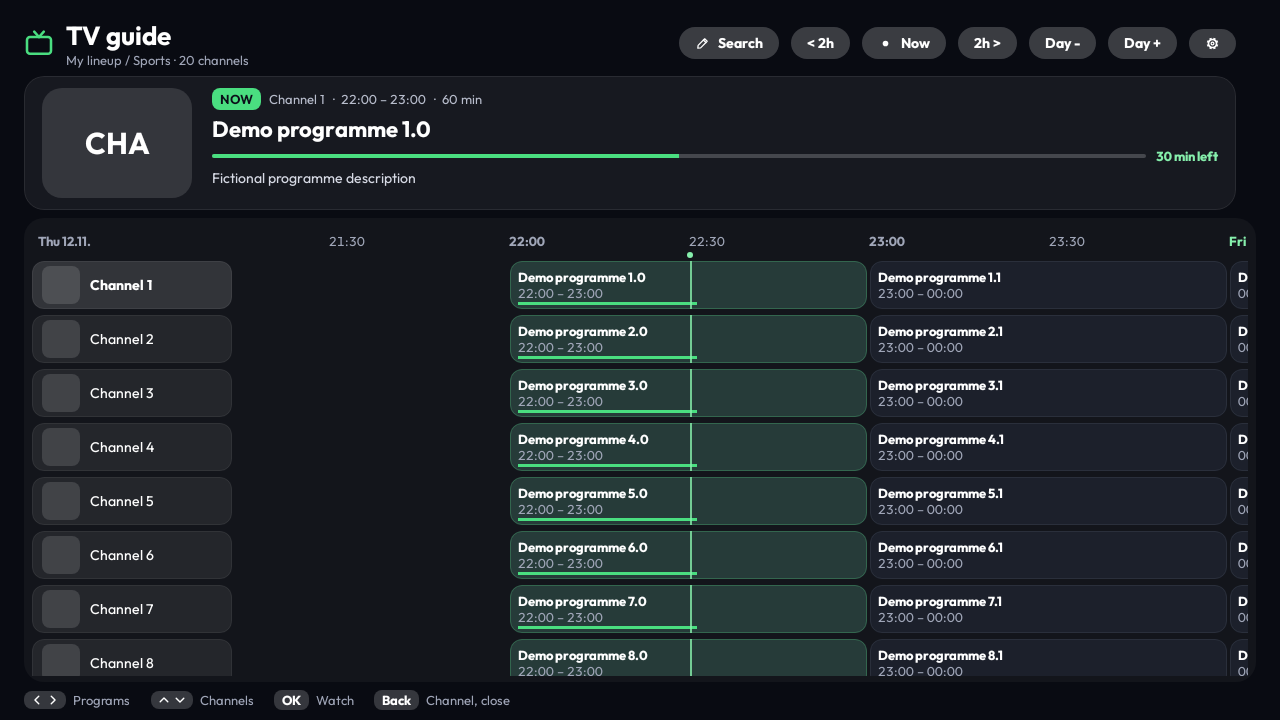
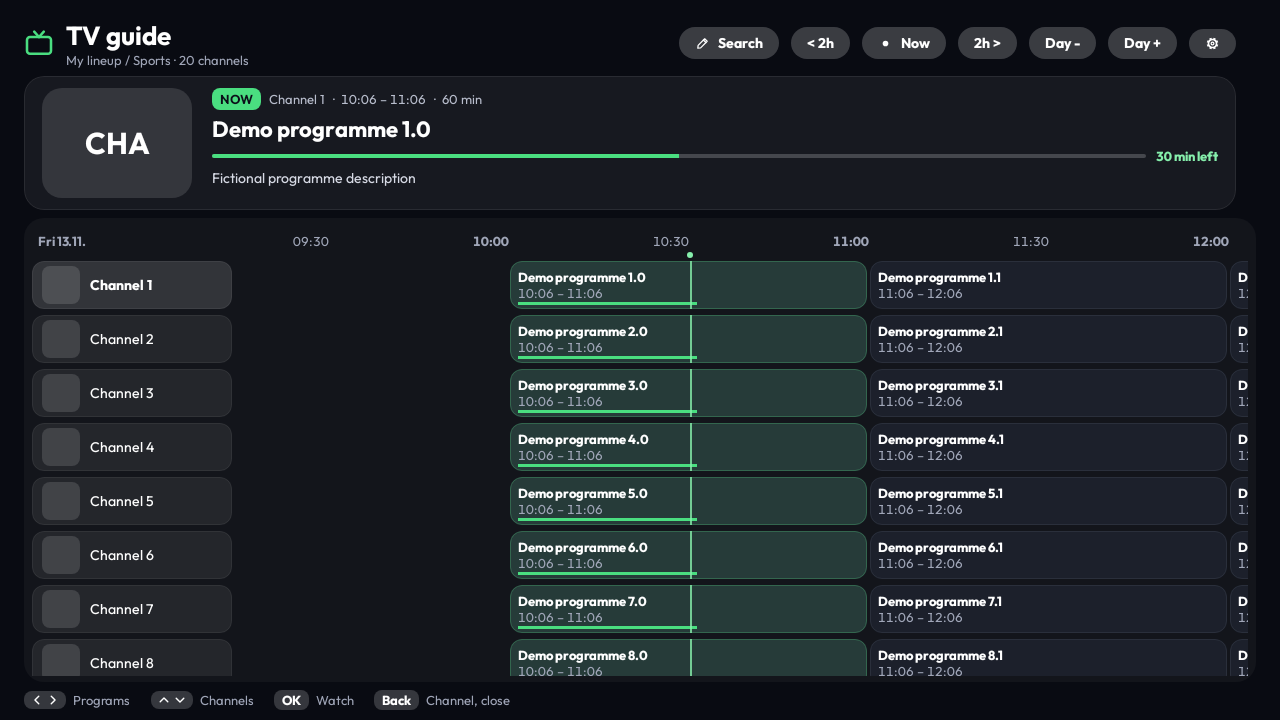
Load short EPG on demand and make full XMLTV downloads manual

diff --git a/app/src/main/java/com/ipvio/stream/Epg.kt b/app/src/main/java/com/ipvio/stream/Epg.kt
@@ -11,9 +11,11 @@ import kotlinx.coroutines.Dispatchers
 import kotlinx.coroutines.Job
 import kotlinx.coroutines.SupervisorJob
 import kotlinx.coroutines.launch
+import kotlinx.coroutines.ensureActive
 import kotlinx.coroutines.sync.Semaphore
 import kotlinx.coroutines.sync.withPermit
 import kotlinx.coroutines.withContext
+import kotlinx.coroutines.sync.withLock
 import okhttp3.Request
 import org.json.JSONObject
 import org.xmlpull.v1.XmlPullParser
@@ -51,24 +53,41 @@ object EpgNet {
     val client = Net.withTimeouts(8, 12)
     val gate = Semaphore(6)
 
+    private val retryCodes=setOf(408,429,500,502,503,504)
     suspend fun fetch(url: String): String? = gate.withPermit {
         withContext(Dispatchers.IO) {
-            try {
-                client.newCall(Request.Builder().url(url).build()).execute().use { r -> if (r.isSuccessful) r.body?.string() else null }
-            } catch (e: Exception) {
-                null
+            repeat(2) { attempt ->
+                kotlinx.coroutines.currentCoroutineContext().ensureActive()
+                try {
+                    client.newCall(Request.Builder().url(url).build()).execute().use { r ->
+                        if(r.isSuccessful) return@withContext r.body?.string()
+                        if(r.code !in retryCodes || attempt==1) return@withContext null
+                    }
+                } catch(e:kotlinx.coroutines.CancellationException) { throw e }
+                catch(e:java.io.IOException) { if(attempt==1) return@withContext null }
+                if(attempt==0) kotlinx.coroutines.delay(350)
             }
+            null
         }
     }
+
 }
 
 object Xmltv {
-    var status by mutableStateOf("Noch nicht geladen")
+    var status by mutableStateOf("On-demand EPG; full XMLTV download is manual")
     var channelCount by mutableStateOf(0)
     private val progs = ConcurrentHashMap<String, List<EpgEntry>>()
     private val client = Net.withTimeouts(20, 180)
     private val scope = CoroutineScope(SupervisorJob() + Dispatchers.IO)
     private var job: Job? = null
+
+    /** Catalog changes never start a full provider XMLTV download. Old data must not leak into another source. */
+    fun onPlaylistChanged() {
+        job?.cancel()
+        progs.clear(); channelCount=0; truncated=false
+        Epg.trim(); EpgFull.trim()
+        status="On-demand EPG; full XMLTV download is manual"
+    }
 
     private fun prefs(c: Context) = c.getSharedPreferences("ipvio_epg", Context.MODE_PRIVATE)
     fun customUrl(c: Context): String = prefs(c).getString("custom", "") ?: ""
@@ -85,6 +104,7 @@ object Xmltv {
     /** [delayMs]: at app start the guide waits a little so the home screen and the playlist get the CPU first. */
     fun start(c: Context, urls: List<String>, items: List<Item>, delayMs: Long = 0L) {
         val all = (urls + listOf(customUrl(c))).filter { it.startsWith("http") }.distinct()
+        job?.cancel()
         if (all.isEmpty()) { status = "Keine EPG-Adresse gefunden"; return }
         val wanted = items.filter { it.kind == Kind.LIVE }.mapNotNull { it.tvgId?.lowercase() }.toSet()
         if (wanted.isEmpty()) { status = "Playlist enthält keine Sender-IDs (tvg-id)"; return }
@@ -103,9 +123,11 @@ object Xmltv {
                 val k = id.lowercase()
                 past[k] = maxOf(past[k] ?: 0, d.coerceAtMost(7))
             }
+            val parseContext=kotlinx.coroutines.currentCoroutineContext()
             for (u in all) {
-                try { parse(u, wanted, map, past) } catch (e: Exception) { err = if (e is PlaylistError) e.message else e.javaClass.simpleName }
+                try { parse(u, wanted, map, past) { parseContext.ensureActive() } } catch(e:kotlinx.coroutines.CancellationException) { throw e } catch (e: Exception) { err = if (e is PlaylistError) e.message else e.javaClass.simpleName }
             }
+            kotlinx.coroutines.currentCoroutineContext().ensureActive()
             progs.clear()
             for ((k, v) in map) progs[k] = v.sortedBy { it.start }
             channelCount = progs.size
@@ -124,7 +146,7 @@ object Xmltv {
     private fun shortDesc(d: String): String =
         if (d.length <= MAX_DESC) d else d.substring(0, d.lastIndexOf(' ', MAX_DESC).takeIf { it > MAX_DESC / 2 } ?: MAX_DESC) + " …"
 
-    private fun parse(url: String, wanted: Set<String>, out: HashMap<String, MutableList<EpgEntry>>, past: Map<String, Int> = emptyMap()) {
+    internal fun parse(url: String, wanted: Set<String>, out: HashMap<String, MutableList<EpgEntry>>, past: Map<String, Int> = emptyMap(), checkActive:()->Unit = {}) {
         client.newCall(Request.Builder().url(url).build()).execute().use { r ->
             if (!r.isSuccessful) throw PlaylistError("HTTP ${r.code}")
             var ins: InputStream = BufferedInputStream((r.body ?: throw PlaylistError("leer")).byteStream())
@@ -140,8 +162,20 @@ object Xmltv {
             var seen = 0
             var ev = p.eventType
             while (ev != XmlPullParser.END_DOCUMENT) {
+                checkActive()
+                if(Thread.currentThread().isInterrupted) throw java.io.InterruptedIOException()
                 if (ev == XmlPullParser.START_TAG && p.name == "programme") {
                     val ch = p.getAttributeValue(null, "channel")?.lowercase()
+                    if(ch==null || ch !in wanted) {
+                        var depth=1
+                        while(depth>0 && p.next()!=XmlPullParser.END_DOCUMENT) {
+                            checkActive()
+                            if(p.eventType==XmlPullParser.START_TAG) depth++
+                            else if(p.eventType==XmlPullParser.END_TAG) depth--
+                        }
+                        ev=p.next()
+                        continue
+                    }
                     val s = parseTime(p.getAttributeValue(null, "start"))
                     val e = parseTime(p.getAttributeValue(null, "stop"))
                     var title = ""
@@ -181,17 +215,25 @@ class LruCache<K, V>(private val max: Int) {
 }
 
 object Epg {
+    private val requestLocks=Array(64) { kotlinx.coroutines.sync.Mutex() }
     private val cache = LruCache<String, Pair<Long, List<EpgEntry>>>(400)
     fun trim() = cache.clear()
-    private val LIVE_RE = Regex("""^(https?://[^/]+)/(?:live/)?([^/]+)/([^/]+)/(\d+)(?:\.\w+)?(?:\?.*)?$""")
-
-    fun supported(item: Item): Boolean = LIVE_RE.matches(item.url) || Xmltv.has(item.tvgId)
-
-    /** Address of the Xtream program query [action] for a channel or null if the channel has no Xtream address. */
+    /** Xtream channel URL, including installations under a server subdirectory. Raw path preserves encoded credentials. */
     internal fun xtreamApi(item: Item, action: String): String? {
-        val p = LIVE_RE.find(item.url)?.groupValues ?: return null
-        return "${p[1]}/player_api.php?username=${p[2]}&password=${p[3]}&action=$action&stream_id=${p[4]}"
+        val u=runCatching { java.net.URI(item.url) }.getOrNull() ?: return null
+        if(u.scheme !in listOf("http","https") || u.rawAuthority==null) return null
+        val path=u.rawPath.orEmpty()
+        val marker=path.lastIndexOf("/live/")
+        val tail=if(marker>=0) path.substring(marker+6) else path.removePrefix("/")
+        val parts=tail.split('/')
+        if(parts.size!=3) return null
+        val id=parts[2].substringBefore('.')
+        if(id.isEmpty() || !id.all { it.isDigit() }) return null
+        val prefix=if(marker>=0) path.substring(0,marker) else ""
+        return "${u.scheme}://${u.rawAuthority}$prefix/player_api.php?username=${parts[0]}&password=${parts[1]}&action=$action&stream_id=$id"
     }
+
+    fun supported(item: Item): Boolean = xtreamApi(item,"get_short_epg")!=null || Xmltv.has(item.tvgId)
 
     /** Xtream delivers title and description Base64-encoded, but some providers in plain text. */
     private fun decode(s: String): String {
@@ -222,18 +264,18 @@ object Epg {
         return out
     }
 
-    /** Running and upcoming shows of a channel. Order: cache, loaded XMLTV (immediately), then Xtream query. */
-    suspend fun now(item: Item): List<EpgEntry> {
+    /** Running/upcoming shows: cache, on-demand Xtream short EPG, manually loaded XMLTV fallback. */
+    suspend fun now(item: Item): List<EpgEntry> = requestLocks[(item.id.hashCode() and Int.MAX_VALUE)%requestLocks.size].withLock {
         val nowMs = System.currentTimeMillis()
         val nowSec = nowMs / 1000
-        cache[item.id]?.let { if (nowMs - it.first < 120_000) return it.second }
+        cache[item.id]?.let { if (nowMs - it.first < (if(it.second.isEmpty()) 15_000 else 120_000)) return@withLock it.second }
         // Everything below (XMLTV filter, JSON parsing, Base64) runs off the main thread, whoever calls this
-        return withContext(Dispatchers.Default) { nowFresh(item, nowMs, nowSec) }
+        withContext(Dispatchers.Default) { nowFresh(item, nowMs, nowSec) }.also { cache[item.id]=nowMs to it }
     }
 
     private suspend fun nowFresh(item: Item, nowMs: Long, nowSec: Long): List<EpgEntry> {
         val local = Xmltv.forChannel(item.tvgId).filter { it.end > nowSec }
-        if (local.isNotEmpty() && current(local) != null) return local.take(8).also { cache[item.id] = nowMs to it }
+        // Xtream short EPG takes priority; a manually loaded XMLTV guide is fallback, not a startup dependency.
         val url = xtreamApi(item, "get_short_epg")
         if (url != null) {
             val body = EpgNet.fetch("$url&limit=8")
@@ -242,13 +284,13 @@ object Epg {
                 if (out.isNotEmpty()) { cache[item.id] = nowMs to out; return out }
             }
         }
-        return local.take(8)
+        return local.take(8).also { if(it.isNotEmpty()) cache[item.id]=nowMs to it }
     }
 
     /** Cached result of [now] if it is still fresh, without any lookup or network (cheap enough for composition). */
     fun peek(item: Item): List<EpgEntry>? {
         val c = cache[item.id] ?: return null
-        return if (System.currentTimeMillis() - c.first < 120_000) c.second else null
+        return if (System.currentTimeMillis() - c.first < (if(c.second.isEmpty()) 15_000 else 120_000)) c.second else null
     }
 
     fun current(list: List<EpgEntry>): EpgEntry? {

diff --git a/app/src/test/java/com/ipvio/stream/OnDemandEpgTest.kt b/app/src/test/java/com/ipvio/stream/OnDemandEpgTest.kt
@@ -1,0 +1,70 @@
+package com.ipvio.stream
+
+import kotlinx.coroutines.*
+import okhttp3.mockwebserver.*
+import org.junit.Assert.*
+import org.junit.Test
+import org.junit.runner.RunWith
+import org.robolectric.RobolectricTestRunner
+import org.robolectric.annotation.Config
+import java.util.concurrent.atomic.AtomicInteger
+
+@RunWith(RobolectricTestRunner::class)
+@Config(sdk=[35])
+class OnDemandEpgTest {
+    private fun ch(server:MockWebServer,id:Int)=Item("on-demand-$id",Kind.LIVE,"Channel $id",null,server.url("/sub/live/fictional-user/fictional-password/$id.ts").toString(),null,"Group $id",tvgId="epg$id")
+    private fun listing(title:String):String {
+        val now=System.currentTimeMillis()/1000
+        return """{"epg_listings":[{"title":"$title","description":"demo","start_timestamp":"${now-600}","stop_timestamp":"${now+3600}"}]}"""
+    }
+    @Test fun catalogChangeDoesNotFetchXmltvAndVisibleChannelsUseShortEpgWithCache()=runBlocking {
+        val server=MockWebServer();val requests=java.util.concurrent.CopyOnWriteArrayList<String>()
+        val attempts=AtomicInteger()
+        server.dispatcher=object:okhttp3.mockwebserver.Dispatcher(){override fun dispatch(r:RecordedRequest):MockResponse {
+            requests.add(r.path.orEmpty())
+            assertEquals("get_short_epg",r.requestUrl!!.queryParameter("action"))
+            if(attempts.incrementAndGet()==1) return MockResponse().setResponseCode(503)
+            return MockResponse().setBody(listing("Short EPG"))
+        }}
+        server.start()
+        try {
+            val catalog=(1..10000).map {ch(server,it)}
+            Xmltv.onPlaylistChanged()
+            assertEquals(0,server.requestCount)
+            val visible=listOf(catalog[17],catalog[8191])
+            val results=coroutineScope { (visible+visible).map {async {Epg.now(it)}}.awaitAll() }
+            assertTrue(results.all {it.single().title=="Short EPG"})
+            assertEquals(3,server.requestCount) // two visible channels, one bounded transient retry
+            assertEquals(setOf("18","8192"),requests.map {it.substringAfter("stream_id=").substringBefore('&')}.toSet())
+            assertNotNull(Epg.peek(visible[0]));assertEquals(results[0],Epg.now(visible[0]))
+            Xmltv.onPlaylistChanged();assertNull(Epg.peek(visible[0]));assertEquals(3,server.requestCount)
+        } finally {server.shutdown();Epg.trim()}
+    }
+    @Test fun failuresAreBrieflyCachedWithoutStartingBulkDownload()=runBlocking {
+        val server=MockWebServer();server.start()
+        try {
+            server.enqueue(MockResponse().setResponseCode(403))
+            val item=ch(server,99001);Epg.trim()
+            assertTrue(Epg.now(item).isEmpty());assertTrue(Epg.now(item).isEmpty())
+            assertEquals(1,server.requestCount)
+        } finally {server.shutdown();Epg.trim()}
+    }
+    @Test fun manualXmltvSkipsUnselectedProgrammeSubtreesBeforeReadingTitle() {
+        val server=MockWebServer();server.start()
+        try {
+            val now=System.currentTimeMillis()/1000
+            val format=java.text.SimpleDateFormat("yyyyMMddHHmmss Z").apply {timeZone=java.util.TimeZone.getTimeZone("UTC")}
+            fun t(n:Long)=format.format(java.util.Date(n*1000))
+            val unwanted=(1..5000).joinToString("") { "<programme channel=\"other$it\" start=\"${t(now)}\" stop=\"${t(now+3600)}\"><title><nested>Unwanted</nested></title></programme>" }
+            server.enqueue(MockResponse().setBody("<tv>$unwanted<programme channel=\"wanted\" start=\"${t(now)}\" stop=\"${t(now+3600)}\"><title>Wanted programme</title><desc>demo</desc></programme></tv>"))
+            val out=HashMap<String,MutableList<EpgEntry>>()
+            Xmltv.parse(server.url("/manual.xml").toString(),setOf("wanted"),out)
+            assertEquals(setOf("wanted"),out.keys);assertEquals("Wanted programme",out["wanted"]!!.single().title)
+        } finally {server.shutdown()}
+    }
+    @Test fun xtreamBasePathAndEncodedCredentialsArePreserved() {
+        val item=Item("path",Kind.LIVE,"demo",null,"https://demo.invalid/provider/live/test%40user/pass%26word/42.ts",null,"demo")
+        assertEquals("https://demo.invalid/provider/player_api.php?username=test%40user&password=pass%26word&action=get_short_epg&stream_id=42",Epg.xtreamApi(item,"get_short_epg"))
+        assertNull(Epg.xtreamApi(item.copy(url="https://demo.invalid/channel.m3u8"),"get_short_epg"))
+    }
+}

diff --git a/app/src/main/java/com/ipvio/stream/EpgFull.kt b/app/src/main/java/com/ipvio/stream/EpgFull.kt
@@ -2,8 +2,10 @@ package com.ipvio.stream
 
 import kotlinx.coroutines.Dispatchers
 import kotlinx.coroutines.withContext
+import kotlinx.coroutines.sync.withLock
 
 object EpgFull {
+    private val requestLocks=Array(64) { kotlinx.coroutines.sync.Mutex() }
     private val cache = LruCache<String, Pair<Long, List<EpgEntry>>>(300)
     fun trim() = cache.clear()
 
@@ -11,18 +13,18 @@ object EpgFull {
      * Program of a channel: from 1 h back, for channels with archive (catchup) as far back as the archive reaches.
      * First cache and loaded XMLTV (without network), then Xtream.
      */
-    suspend fun get(item: Item): List<EpgEntry> {
+    suspend fun get(item: Item): List<EpgEntry> = requestLocks[(item.id.hashCode() and Int.MAX_VALUE)%requestLocks.size].withLock {
         val nowMs = System.currentTimeMillis()
         val nowSec = nowMs / 1000
-        cache[item.id]?.let { if (nowMs - it.first < 600_000) return it.second }
+        cache[item.id]?.let { if (nowMs - it.first < (if(it.second.isEmpty()) 15_000 else 600_000)) return@withLock it.second }
         // The full program table can hold days of shows: parsing and Base64 decoding run off the main thread, whoever calls this
-        return withContext(Dispatchers.Default) { getFresh(item, nowMs, nowSec) }
+        withContext(Dispatchers.Default) { getFresh(item, nowMs, nowSec) }.also { cache[item.id]=nowMs to it }
     }
 
     /** Cached program if still fresh, without lookup or network (cheap enough for composition). */
     fun peek(item: Item): List<EpgEntry>? {
         val c = cache[item.id] ?: return null
-        return if (System.currentTimeMillis() - c.first < 600_000) c.second else null
+        return if (System.currentTimeMillis() - c.first < (if(c.second.isEmpty()) 15_000 else 600_000)) c.second else null
     }
 
     private suspend fun getFresh(item: Item, nowMs: Long, nowSec: Long): List<EpgEntry> {

diff --git a/app/src/main/java/com/ipvio/stream/SettingsHub.kt b/app/src/main/java/com/ipvio/stream/SettingsHub.kt
@@ -1153,14 +1153,14 @@ private fun LivePage(ctx: Context) {
     Text("Programm bei $xtream von ${counts.first} Sendern möglich", color = Muted, fontSize = 15.sp)
     Text("XMLTV: ${Xmltv.status}", color = Accent2, fontSize = 15.sp)
     ToggleRow("Sender-Qualitäten bündeln", "Derselbe Sender in 8K, 4K, FHD, HD und SD erscheint als eine Zeile. OK startet die beste Qualität, die anderen wählst du im Menü des Senders (OK gedrückt halten).", General.bundleLive) { General.setBundleLive(ctx, it) }
-    Hint("Die App sucht die Programmdaten automatisch (Xtream-Schnittstelle oder XMLTV-Adresse aus der Playlist). Wenn dein Anbieter eine eigene XMLTV-Adresse nennt, trage sie hier ein.")
+    Hint("Xtream now/next loads on demand for visible channels. Full XMLTV is manual only. The buttons below download the XMLTV file and keep programmes for your selected list/group. The provider may still send the full file. M3U-only sources need this manual load for guide data.")
     Field(url, { url = it }, "https://…/xmltv.php?username=…&password=…")
     Row(horizontalArrangement = Arrangement.spacedBy(12.dp)) {
         PillButton("Speichern & laden", light = true) {
             Xmltv.setCustom(ctx, url)
-            Xmltv.start(ctx, PlaylistStore.epgUrls, PlaylistStore.channels)
+            Xmltv.start(ctx, PlaylistStore.epgUrls, GuideSelection.resolve(PlaylistStore.channels))
         }
-        PillButton("Neu laden") { Xmltv.start(ctx, PlaylistStore.epgUrls, PlaylistStore.channels) }
+        PillButton("Neu laden") { Xmltv.start(ctx, PlaylistStore.epgUrls, GuideSelection.resolve(PlaylistStore.channels)) }
     }
     Spacer(Modifier.height(4.dp))
     Text("Favoriten: ${Library.favs.size} Sender · ${CatFavs.list.size} Kategorien", color = Color.White, fontSize = 17.sp)

diff --git a/app/src/test/java/com/ipvio/stream/LineupRenderTest.kt b/app/src/test/java/com/ipvio/stream/LineupRenderTest.kt
@@ -39,6 +39,9 @@ class LineupRenderTest {
         val programmes=field.get(Xmltv) as java.util.concurrent.ConcurrentHashMap<String,List<EpgEntry>>
         val now=System.currentTimeMillis()/1000
         programmes["arena"]=listOf(EpgEntry("Demo match - live","Fictional guide programme for visual testing",now-900,now+2700),EpgEntry("Sports roundup","Fictional next programme",now+2700,now+6300))
+        @Suppress("UNCHECKED_CAST")
+        val shortCache=Epg::class.java.getDeclaredField("cache").apply {isAccessible=true}.get(Epg) as LruCache<String,Pair<Long,List<EpgEntry>>>
+        shortCache[sport.id]=System.currentTimeMillis() to programmes["arena"].orEmpty()
         val ctx=compose.activity
         ChannelLists.init(ctx)
         val id=ChannelLists.create(ctx,"My evening")
@@ -55,6 +58,7 @@ class LineupRenderTest {
         // Sports also exists in sidebar. The group row has its own distinct group panel text parent.
         compose.onAllNodesWithText("Sports",useUnmergedTree=true).onLast().performClick()
         compose.mainClock.advanceTimeBy(500)
+        compose.onAllNodesWithText("Demo match - live",useUnmergedTree=true).onFirst().assertExists()
         snap("03-group-channels")
         compose.onNodeWithText("Back to lineup groups",useUnmergedTree=true).assertExists()
         compose.onAllNodesWithText("Arena One",useUnmergedTree=true).onFirst().assertExists()

diff --git a/app/src/main/java/com/ipvio/stream/PlaylistStore.kt b/app/src/main/java/com/ipvio/stream/PlaylistStore.kt
@@ -941,7 +941,7 @@ object PlaylistStore {
         Catchup.startAll(c, listOf(u to primaryItems) + ex.map { it.first to it.second.items })
         // Only refetch the TV guide if addresses or channels have changed
         val es = epg.hashCode().toLong() * 31 + sig(vis.filter { it.kind == Kind.LIVE })
-        if (es != epgSig) { val first = epgSig == 0L; epgSig = es; Xmltv.start(c, epg, vis, if (first) 6_000L else 0L) }
+        if (es != epgSig) { epgSig = es; Xmltv.onPlaylistChanged() }
     }
 
     private fun restartCatchup(c: Context) {

diff --git a/app/src/main/java/com/ipvio/stream/AddPlaylistScreen.kt b/app/src/main/java/com/ipvio/stream/AddPlaylistScreen.kt
@@ -88,7 +88,7 @@ fun AddPlaylistScreen(onDone: () -> Unit) {
         receiver.onEpg = { u ->
             Handler(Looper.getMainLooper()).post {
                 Xmltv.setCustom(ctx, u)
-                if (PlaylistStore.channels.isNotEmpty()) Xmltv.start(ctx, PlaylistStore.epgUrls, PlaylistStore.channels)
+                if (PlaylistStore.channels.isNotEmpty()) Xmltv.onPlaylistChanged()
             }
         }
         receiver.onList = { name, bytes ->

diff --git a/docs/TODO-guide.md b/docs/TODO-guide.md
@@ -2,7 +2,17 @@
 
 Notes based on the current codebase (Lineup-Stream fork of IPVIO Stream).
 
-## Current state (relevant parts)
+## Implemented first slice (0.2.2)
+
+- Catalog changes and phone-import updates no longer start XMLTV downloads. Short now/next is requested only by rendered channel UI / the currently playing channel; the full grid uses per-channel data for visible rows and its focused channel.
+- Short EPG uses its cache first, then Xtream, then manually loaded XMLTV as fallback. Duplicate same-channel calls share a fetch; empty results have a 15-second retry cooldown. Transient network/HTTP failures get one retry.
+- Explicit XMLTV load stays in Settings. It keeps the active selection's channel IDs and skips other programme subtrees before reading title/description. It still downloads the full provider file when no filtered endpoint exists. M3U-only providers must use manual XMLTV loading.
+- Existing now/next lines, progress bars, scoped grid and hold-to-scroll protection remain.
+- 359 tests passed including a 10,000-channel synthetic catalog with requests only for two requested channels, no catalog-triggered guide request, cache/dedup/retry, and manual XMLTV filtering.
+
+Not implemented in this slice: conditional XMLTV downloads (ETag/If-Modified-Since), separate periodic guide worker, new timeline UI, provider-side category/day filtering, and R8 changes. The checklist below remains historical suggestions, not a claim that every item is complete.
+
+## Prior state (before 0.2.2)
 
 - Channel rows already show **now + next + progress bar** when data is available (`ChannelLine` in `LiveTab.kt`).
 - Data comes from `Epg.now()` (with a short delay + hold-to-scroll protection so it doesn't thrash while zapping).

diff --git a/FORK.md b/FORK.md
@@ -2,6 +2,12 @@
 
 An independent GPL-3.0 fork of [IPVIO Stream](https://github.com/Emrodev/IPVIO-Stream) by its contributors. Not an official IPVIO release and not endorsed by upstream. Original code, font licenses and third-party notices remain in this source tree. See LICENSE.
 
+## 0.2.2 on-demand EPG
+
+Playlist loading/refresh no longer starts full XMLTV downloads, including for M3U sources. Xtream now/next is loaded on demand by rendered channel UI and the playing channel, with cache reuse, same-channel request deduplication, a short empty-result cooldown and one retry for transient failures. The scoped grid and its per-channel programme queries are unchanged.
+
+For M3U/custom XMLTV, select your group/list and use Settings > Live TV > XMLTV Save & load / Reload. This is an explicit full-file download; only the selected channels' programmes are kept. Providers without per-channel APIs will not show guide data until that manual load. The parser skips unrelated programme subtrees before building strings. No ETag cache or independent refresh worker yet. Guide data remains provider-dependent.
+
 ## 0.2.1 follow-up
 
 - App-wide and Live TV guide routes preserve the selected list/group instead of resetting to ALL. The player guide and its search cannot widen to unrelated provider channels. An explicitly selected All channels list still means all channels; without a prior choice the guide starts with the first provider group, not the full catalog.

diff --git a/docs/VALIDATION.md b/docs/VALIDATION.md
@@ -1,3 +1,12 @@
+# 0.2.2 validation
+
+- assembleDebug and testDebugUnitTest passed. 359 tests, zero failures/errors/skips.
+- Mock-provider tests: catalog-change handler makes zero requests with a 10,000-channel synthetic catalog; only two requested channels call get_short_epg; duplicate calls share cache/fetch; one simulated HTTP 503 is retried; HTTP 403 uses a brief empty-result cache; no XMLTV request is triggered by API failure.
+- Manual XMLTV parser test skips 5,000 unrelated programme subtrees and retains only the requested channel. Nested irrelevant title markup is skipped without extracting its text.
+- Verified nested Xtream base paths and percent-encoded credentials are preserved. No real provider credentials were used.
+- Re-rendered/inspected actual group/channel and scoped-guide UI. Layout unchanged; demo programmes fictional. Source inspection confirms only the explicit Settings XMLTV buttons call Xmltv.start.
+- Same debug package/signing certificate, versionCode 9. No clean-lint claim; actual provider/TV acceptance remains necessary.
+
 # 0.2.1 validation
 
 - assembleDebug passed; 355 tests passed with zero failures/errors/skips, including guide scope resolution, removed-channel no-ALL-fallback, route checks, scoped guide/time navigation renders and European football feed/EPG tests.
